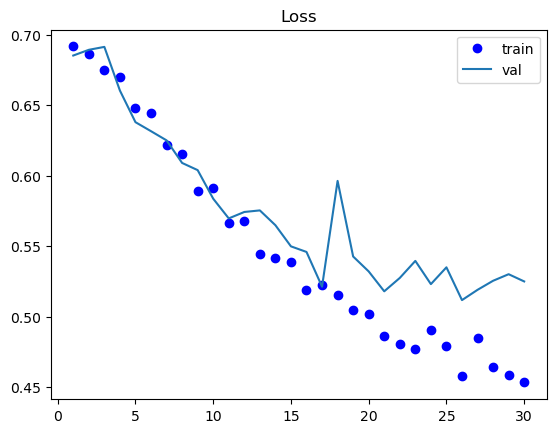
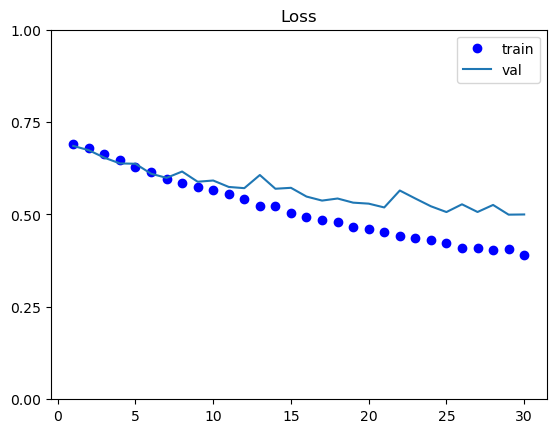
png & py update

diff --git a/DL_Streamlit.py b/DL_Streamlit.py
@@ -105,19 +105,15 @@ import matplotlib.pyplot as plt
 import numpy as np'''
 
     st.code(import_code, 'python')
-    
-    
-    cnn, tl = st.columns(2)
-    
-    with cnn:
-        st.caption('CNN 네트워크 구축')
-        cnn_code = '''model = models.Sequential()
+      
+    st.caption('CNN 네트워크 구축')
+    cnn_code = '''model = models.Sequential()
 model.add(layers.Conv2D(32, (3,3), activation='relu', input_shape=(150, 150, 3)))
-# Conv2D : 이미지이기에
+# Conv2D : 이미지는 2D, 동영상은 3D
 # 필터 : 32
 # kernel size : 3
-# activation : 활성화함수
-# input_shape : 150, 150, 3(너비, 높이, 채널(여기서는 컬러이기에 3))
+# activation : relu함수를 활성화 함수로 사용
+# input_shape : 150, 150, 3(너비, 높이, 채널(여기서는 컬러이기에 3, 흑백이면 1))
 # (3, 3) -> kernel_size ([3, 3] or 3, (3,3) 가능)
 model.add(layers.MaxPooling2D((2,2))) # 2x2로 pooling
 model.add(layers.Conv2D(64, (3,3), activation='relu'))
@@ -129,11 +125,10 @@ model.add(layers.MaxPooling2D(2,2))
 model.add(layers.Flatten()) # 1차원 벡터로 나열하기 위함
 model.add(layers.Dense(512, activation='relu'))
 model.add(layers.Dense(1, activation='sigmoid'))'''
-        st.code(cnn_code, 'python')
+    st.code(cnn_code, 'python')
         
-    with tl:
-        st.caption('TL 네트워크 구축')
-        tl_code = '''base_model = MobileNet(weights='imagenet', include_top = False, input_shape=(150, 150, 3))
+    st.caption('TL 네트워크 구축')
+    tl_code = '''base_model = MobileNet(weights='imagenet', include_top = False, input_shape=(150, 150, 3))
 # MobileNet : Pre-trained model
 # include_top = False : 특징 추출기로만사용 
 model = Sequential()
@@ -143,9 +138,12 @@ model.add(Flatten())
 model.add(Dense(512, activation='relu'))
 model.add(Dropout(0.25))
 model.add(Dense(1, activation='sigmoid'))'''
-        st.code(tl_code, 'python')
+    st.code(tl_code, 'python')
     
-    same_code = '''model.compile(optimizer=optimizers.Adam(learning_rate=2e-5), # lr : learnint rate 설정
+    st.caption('같은 부분')
+    
+    same_code = '''model.compile(optimizer=optimizers.Adam(learning_rate=2e-5), 
+              # learning_rate : learnint rate 설정
               loss='binary_crossentropy',
               metrics=['accuracy'])# 최적화, 손실함수, 성능평가지표
               
@@ -156,14 +154,14 @@ test_datagen = ImageDataGenerator(rescale=1./255)
 train_generator = train_datagen.flow_from_directory(
     train_dir, # 타겟 디렉토리
     target_size=(150,150),
-    batch_size=20,
+    batch_size=40,
     class_mode='binary'
 )
 
 val_generator = test_datagen.flow_from_directory(
     val_dir,
     target_size=(150, 150),
-    batch_size=20,
+    batch_size=40,
     class_mode='binary'
 )
 
@@ -204,7 +202,7 @@ history_plot(history.history)
 test_generator = test_datagen.flow_from_directory(
         test_dir,
         target_size=(150, 150),
-        batch_size=20,
+        batch_size=40,
         class_mode='binary')
 
 test_loss, test_acc = model.evaluate(test_generator, steps=50)
@@ -221,6 +219,8 @@ print('test acc:', test_acc)
         st.write(' ')
         cnn_loss = Image.open('cnn_loss.png')
         st.image(cnn_loss, caption='CNN loss')
+        st.write('총 실행 시간 : 16분 49초')
+        st.write('test data acc : 77.4%')
 #         st.write(' ')
 #         cnn_test_acc = Image.open('cnn_test_acc.png')
 #         st.image(cnn_test_acc, caption='CNN test data accuracy')
@@ -232,6 +232,8 @@ print('test acc:', test_acc)
         st.write(' ')
         tl_loss = Image.open('tl_loss.png')
         st.image(tl_loss, caption='TL loss')
+        st.write('총 실행 시간 : 37분 14초')
+        st.write('test data acc : 94.5%')
 #         st.write(' ')
 #         tl_test_acc = Image.open('tl_test_acc.png')
 #         st.image(tl_test_acc, caption='TL test data accuracy')
